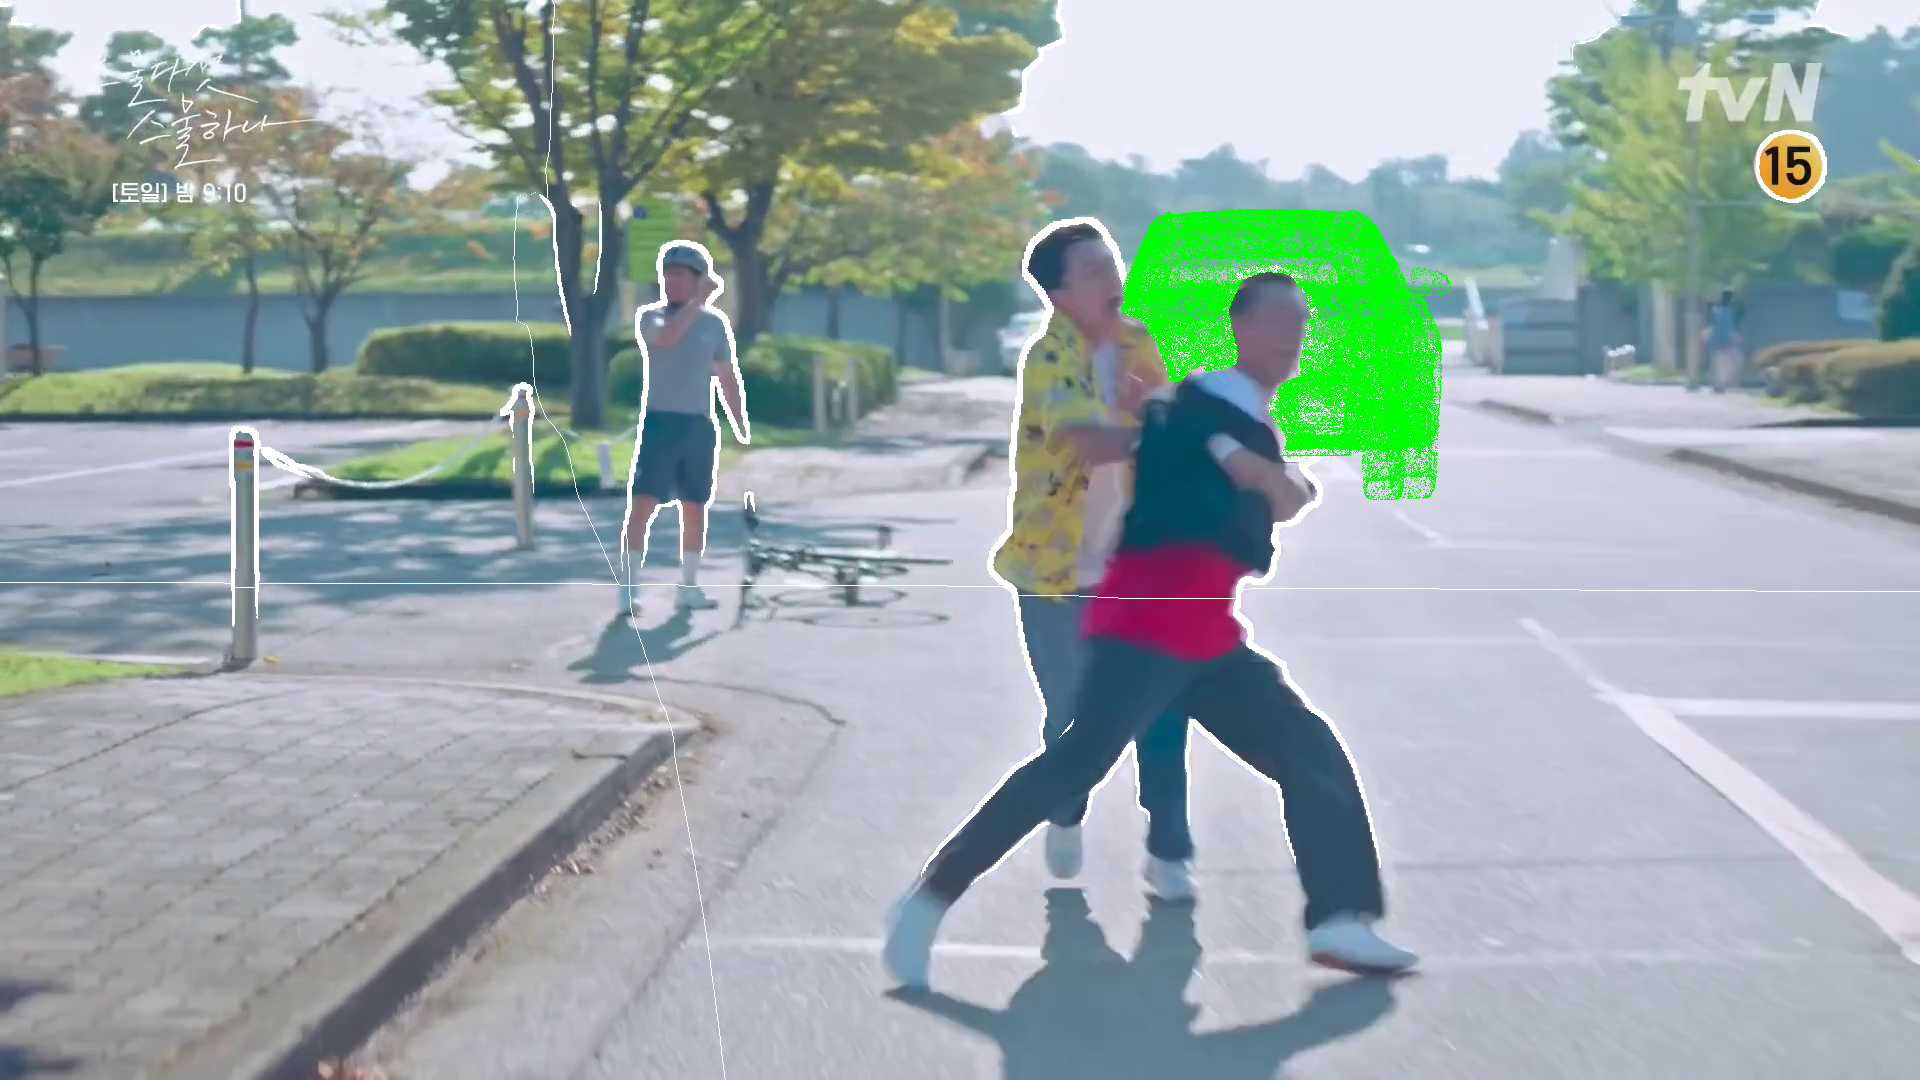
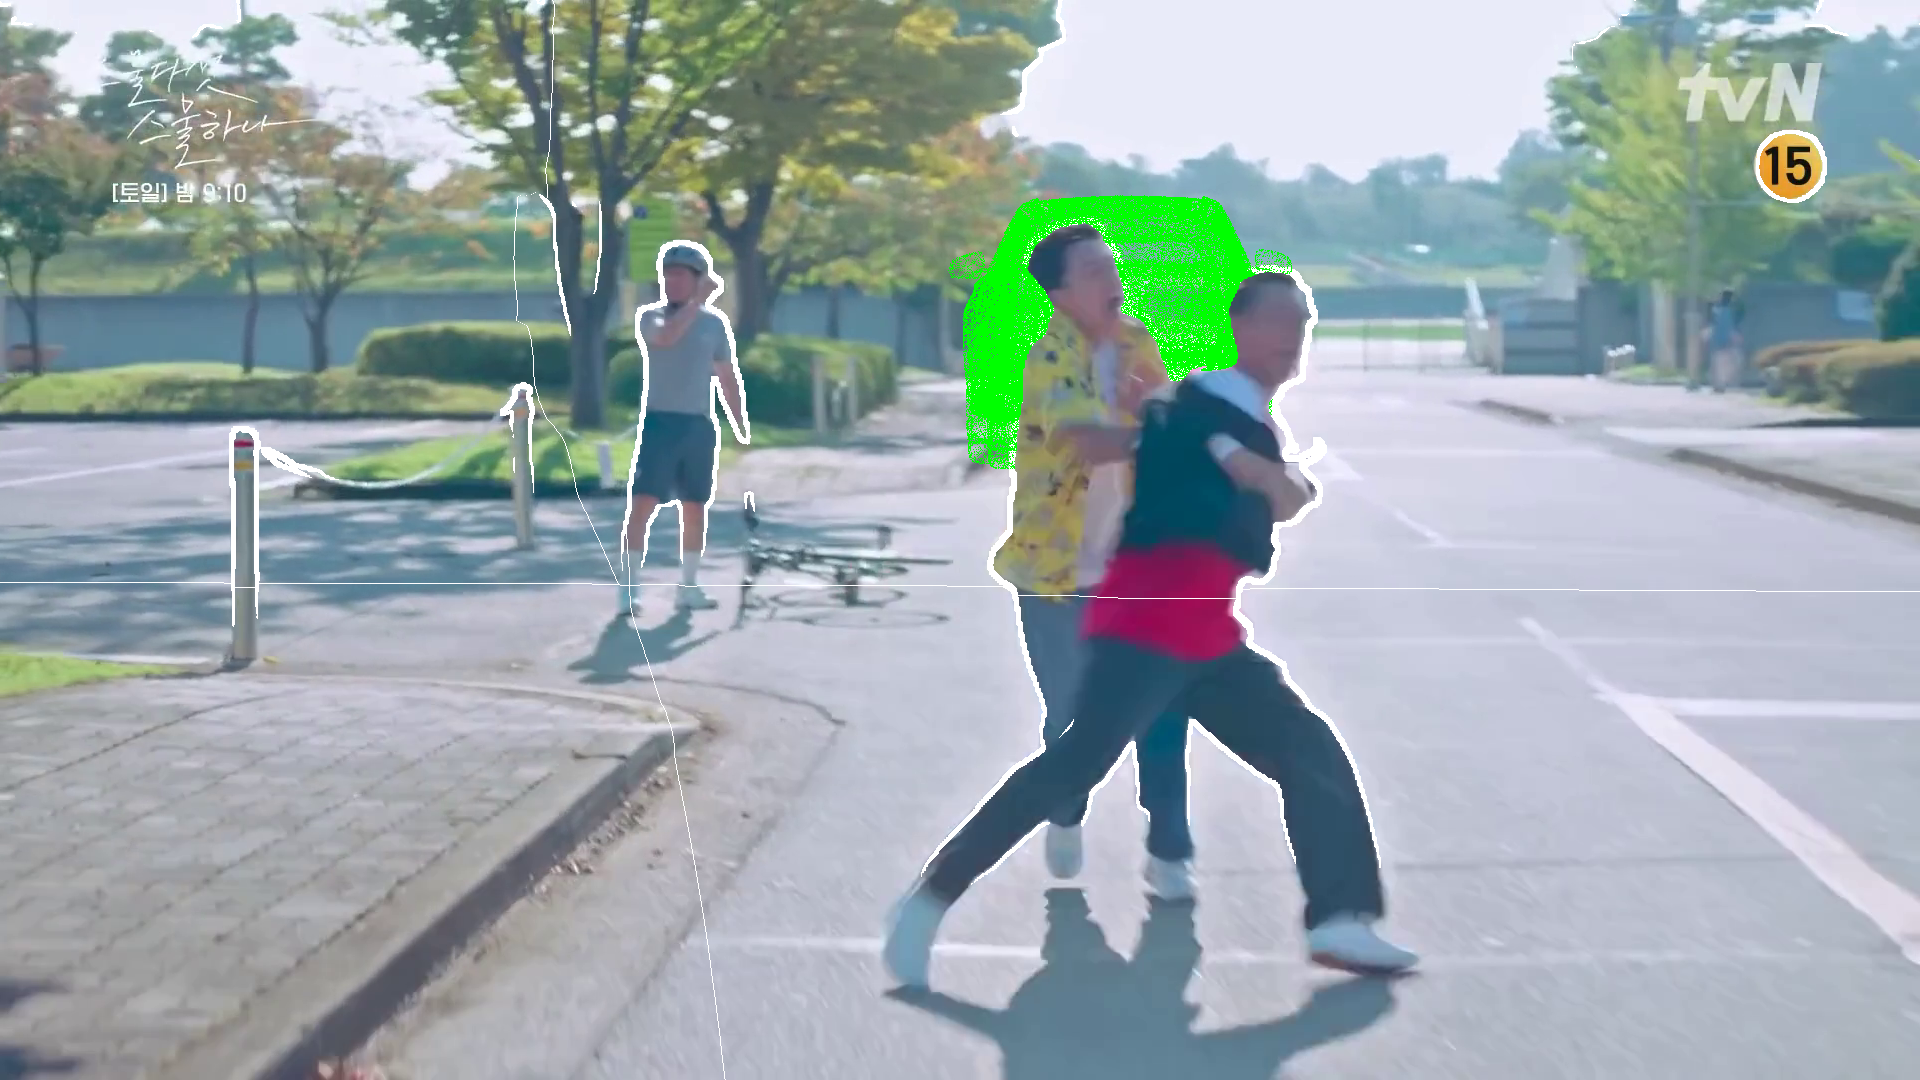
single frame inertia

Changed region(s): [[0.5, 0.1833, 0.75, 0.4583]]

diff --git a/vipe/utils/viser.py b/vipe/utils/viser.py
@@ -343,6 +343,11 @@ class ClientClosures:
                 "Frame to Reproject", min=0, max=max_frames, step=1, initial_value=0
             )
             
+            self.gui_inertia_start_frame = self.client.gui.add_slider(
+                "Inertia Start Frame", min=-1, max=max_frames, step=1, initial_value=-1,
+                hint="관성 적용 시작 프레임 (-1 = 비활성화). 이 프레임부터는 관성 모션이 적용됩니다."
+            )
+            
             gui_reproject_single = self.client.gui.add_button(
                 "Reproject Single Frame",
                 hint="선택한 프레임만 reproject하여 이미지로 저장합니다",
@@ -1378,66 +1383,185 @@ class ClientClosures:
             )
             valid_tracking &= valid_bounds
         
+        # --- 관성 시작 프레임 확인 ---
+        inertia_start_frame = getattr(self, "gui_inertia_start_frame", None)
+        if inertia_start_frame is not None:
+            inertia_start_frame_value = int(inertia_start_frame.value)
+        else:
+            inertia_start_frame_value = -1  # 비활성화
+        
+        use_inertia = (inertia_start_frame_value >= 0 and frame_idx >= inertia_start_frame_value)
+        
         # --- 유효한 추적만 사용하여 현재 프레임의 3D 점 계산 ---
         if valid_tracking.sum() == 0:
             logger.warning(f"  frame {frame_idx}: No valid tracked points")
             # Object는 첫 프레임 위치 유지
             tracked_points = obj_points.copy()
         else:
-            # 유효한 추적된 pixel 좌표
-            valid_coords = current_pixel_coords[valid_tracking].astype(int)
-            
-            # 현재 프레임에서의 depth 가져오기
-            z_curr = depth[valid_coords[:, 1], valid_coords[:, 0]]
-            depth_mask_curr = reliable_depth_mask_range(torch.from_numpy(depth)).numpy()
-            valid_depth_curr = depth_mask_curr[valid_coords[:, 1], valid_coords[:, 0]] & (z_curr > 0)
-            
-            if valid_depth_curr.sum() == 0:
-                logger.warning(f"  frame {frame_idx}: No valid depth for tracked points")
-                tracked_points = obj_points.copy()
-            else:
-                # 유효한 depth만 사용
-                valid_final = valid_tracking.copy()
-                valid_final[valid_tracking] = valid_depth_curr
+            if use_inertia:
+                # 관성 적용: inertia_start_frame에서의 모션 벡터를 선형 확장
+                logger.info(f"  frame {frame_idx}: Using inertia from frame {inertia_start_frame_value}")
                 
-                z_curr_valid = z_curr[valid_depth_curr]
-                valid_coords_final = valid_coords[valid_depth_curr]
+                # Inertia 시작 프레임의 데이터 가져오기
+                inertia_depth = depth_seq[inertia_start_frame_value][1].cpu().numpy()
+                inertia_intr = intr_seq[inertia_start_frame_value].cpu().numpy()
+                inertia_pose = pose_seq[inertia_start_frame_value].matrix().cpu().numpy()
+                inertia_fx, inertia_fy, inertia_cx, inertia_cy = inertia_intr[:4]
+                inertia_R, inertia_t = inertia_pose[:3, :3], inertia_pose[:3, 3]
                 
-                # 현재 프레임의 3D 점들 (world 좌표)
-                X_curr = (valid_coords_final[:, 0] - cx) * z_curr_valid / fx
-                Y_curr = (valid_coords_final[:, 1] - cy) * z_curr_valid / fy
-                pts_cam_curr = np.stack([X_curr, Y_curr, z_curr_valid], axis=-1)
-                pts_world_curr = (pts_cam_curr @ R.T) + t
+                # Inertia 시작 프레임까지의 pixel 좌표 추적
+                inertia_pixel_coords = pixel_coords_frame_0.copy()
+                inertia_valid_tracking = np.ones(len(inertia_pixel_coords), dtype=bool)
                 
-                # 첫 프레임 기준의 motion vector 계산
-                pts_world_frame_0_valid = pts_world_frame_0[valid_final]
-                motion_vectors = pts_world_curr - pts_world_frame_0_valid  # [N, 3]
-                
-                # Object 중심점 계산
-                obj_center_ref = obj_points.mean(axis=0)
-                
-                # Object 근처의 점들 찾기 (첫 프레임 기준 거리)
-                distances_to_obj = np.linalg.norm(pts_world_frame_0_valid - obj_center_ref, axis=1)
-                nearby_mask = distances_to_obj <= nearby_distance
-                
-                if nearby_mask.sum() > 0:
-                    # 근처 점들의 motion vector 평균 계산
-                    nearby_motion_vectors = motion_vectors[nearby_mask]
-                    avg_motion = np.mean(nearby_motion_vectors, axis=0)
+                for flow_frame_idx in range(inertia_start_frame_value):
+                    if flow_frame_idx >= len(self.flow_cache) or self.flow_cache[flow_frame_idx] is None:
+                        inertia_valid_tracking[:] = False
+                        break
                     
-                    # Object를 첫 프레임 위치에서 평균 motion만큼 이동
-                    tracked_points = obj_points + avg_motion
-                    
-                    logger.info(
-                        f"  frame {frame_idx}: "
-                        f"tracked {valid_final.sum()}/{len(valid_tracking)} points, "
-                        f"found {nearby_mask.sum()} nearby points, "
-                        f"avg motion from frame 0 = [{avg_motion[0]:.3f}, {avg_motion[1]:.3f}, {avg_motion[2]:.3f}]"
+                    flow_np = self.flow_cache[flow_frame_idx].numpy()
+                    valid_bounds = (
+                        (inertia_pixel_coords[:, 0] >= 0) & (inertia_pixel_coords[:, 0] < w) &
+                        (inertia_pixel_coords[:, 1] >= 0) & (inertia_pixel_coords[:, 1] < h)
                     )
-                else:
-                    logger.warning(f"  frame {frame_idx}: No nearby points found (distance={nearby_distance:.2f})")
-                    # Object는 첫 프레임 위치 유지
+                    inertia_valid_tracking &= valid_bounds
+                    
+                    if not inertia_valid_tracking.any():
+                        break
+                    
+                    valid_coords = inertia_pixel_coords[inertia_valid_tracking].astype(int)
+                    u_flow = flow_np[0, valid_coords[:, 1], valid_coords[:, 0]]
+                    v_flow = flow_np[1, valid_coords[:, 1], valid_coords[:, 0]]
+                    
+                    inertia_pixel_coords[inertia_valid_tracking, 0] += u_flow
+                    inertia_pixel_coords[inertia_valid_tracking, 1] += v_flow
+                
+                # 최종 유효 범위 체크
+                valid_bounds = (
+                    (inertia_pixel_coords[:, 0] >= 0) & (inertia_pixel_coords[:, 0] < w) &
+                    (inertia_pixel_coords[:, 1] >= 0) & (inertia_pixel_coords[:, 1] < h)
+                )
+                inertia_valid_tracking &= valid_bounds
+                
+                if inertia_valid_tracking.sum() == 0:
+                    logger.warning(f"  frame {frame_idx}: No valid tracked points at inertia start frame {inertia_start_frame_value}")
                     tracked_points = obj_points.copy()
+                else:
+                    # Inertia 시작 프레임의 3D 점 계산
+                    inertia_valid_coords = inertia_pixel_coords[inertia_valid_tracking].astype(int)
+                    inertia_z_curr = inertia_depth[inertia_valid_coords[:, 1], inertia_valid_coords[:, 0]]
+                    inertia_depth_mask = reliable_depth_mask_range(torch.from_numpy(inertia_depth)).numpy()
+                    inertia_valid_depth = inertia_depth_mask[inertia_valid_coords[:, 1], inertia_valid_coords[:, 0]] & (inertia_z_curr > 0)
+                    
+                    if inertia_valid_depth.sum() == 0:
+                        logger.warning(f"  frame {frame_idx}: No valid depth at inertia start frame {inertia_start_frame_value}")
+                        tracked_points = obj_points.copy()
+                    else:
+                        inertia_valid_final = inertia_valid_tracking.copy()
+                        inertia_valid_final[inertia_valid_tracking] = inertia_valid_depth
+                        
+                        inertia_z_valid = inertia_z_curr[inertia_valid_depth]
+                        inertia_valid_coords_final = inertia_valid_coords[inertia_valid_depth]
+                        
+                        # Inertia 시작 프레임의 3D 점들 (world 좌표)
+                        inertia_X_curr = (inertia_valid_coords_final[:, 0] - inertia_cx) * inertia_z_valid / inertia_fx
+                        inertia_Y_curr = (inertia_valid_coords_final[:, 1] - inertia_cy) * inertia_z_valid / inertia_fy
+                        inertia_pts_cam_curr = np.stack([inertia_X_curr, inertia_Y_curr, inertia_z_valid], axis=-1)
+                        inertia_pts_world_curr = (inertia_pts_cam_curr @ inertia_R.T) + inertia_t
+                        
+                        # 첫 프레임 기준의 motion vector 계산 (inertia 시작 프레임에서)
+                        inertia_pts_world_frame_0_valid = pts_world_frame_0[inertia_valid_final]
+                        inertia_motion_vectors = inertia_pts_world_curr - inertia_pts_world_frame_0_valid  # [N, 3]
+                        
+                        # Object 중심점 계산
+                        obj_center_ref = obj_points.mean(axis=0)
+                        
+                        # Object 근처의 점들 찾기 (첫 프레임 기준 거리)
+                        inertia_distances_to_obj = np.linalg.norm(inertia_pts_world_frame_0_valid - obj_center_ref, axis=1)
+                        inertia_nearby_mask = inertia_distances_to_obj <= nearby_distance
+                        
+                        if inertia_nearby_mask.sum() > 0:
+                            # 근처 점들의 motion vector 평균 계산 (inertia 시작 프레임에서)
+                            inertia_nearby_motion_vectors = inertia_motion_vectors[inertia_nearby_mask]
+                            inertia_avg_motion = np.mean(inertia_nearby_motion_vectors, axis=0)
+                            
+                            # 선형 확장: (frame_idx / inertia_start_frame_value) 배만큼 확장
+                            if inertia_start_frame_value > 0:
+                                scale_factor = frame_idx / inertia_start_frame_value
+                            else:
+                                scale_factor = 1.0
+                            
+                            extended_motion = inertia_avg_motion * scale_factor
+                            
+                            # Object를 첫 프레임 위치에서 확장된 motion만큼 이동
+                            tracked_points = obj_points + extended_motion
+                            
+                            logger.info(
+                                f"  frame {frame_idx}: INERTIA MODE "
+                                f"(base frame {inertia_start_frame_value}, scale={scale_factor:.2f}) "
+                                f"tracked {inertia_valid_final.sum()}/{len(inertia_valid_tracking)} points, "
+                                f"found {inertia_nearby_mask.sum()} nearby points, "
+                                f"base motion = [{inertia_avg_motion[0]:.3f}, {inertia_avg_motion[1]:.3f}, {inertia_avg_motion[2]:.3f}], "
+                                f"extended motion = [{extended_motion[0]:.3f}, {extended_motion[1]:.3f}, {extended_motion[2]:.3f}]"
+                            )
+                        else:
+                            logger.warning(f"  frame {frame_idx}: No nearby points at inertia start frame {inertia_start_frame_value}")
+                            tracked_points = obj_points.copy()
+            else:
+                # 기존 로직: 현재 프레임에서 모션 벡터 계산
+                # 유효한 추적된 pixel 좌표
+                valid_coords = current_pixel_coords[valid_tracking].astype(int)
+                
+                # 현재 프레임에서의 depth 가져오기
+                z_curr = depth[valid_coords[:, 1], valid_coords[:, 0]]
+                depth_mask_curr = reliable_depth_mask_range(torch.from_numpy(depth)).numpy()
+                valid_depth_curr = depth_mask_curr[valid_coords[:, 1], valid_coords[:, 0]] & (z_curr > 0)
+                
+                if valid_depth_curr.sum() == 0:
+                    logger.warning(f"  frame {frame_idx}: No valid depth for tracked points")
+                    tracked_points = obj_points.copy()
+                else:
+                    # 유효한 depth만 사용
+                    valid_final = valid_tracking.copy()
+                    valid_final[valid_tracking] = valid_depth_curr
+                    
+                    z_curr_valid = z_curr[valid_depth_curr]
+                    valid_coords_final = valid_coords[valid_depth_curr]
+                    
+                    # 현재 프레임의 3D 점들 (world 좌표)
+                    X_curr = (valid_coords_final[:, 0] - cx) * z_curr_valid / fx
+                    Y_curr = (valid_coords_final[:, 1] - cy) * z_curr_valid / fy
+                    pts_cam_curr = np.stack([X_curr, Y_curr, z_curr_valid], axis=-1)
+                    pts_world_curr = (pts_cam_curr @ R.T) + t
+                    
+                    # 첫 프레임 기준의 motion vector 계산
+                    pts_world_frame_0_valid = pts_world_frame_0[valid_final]
+                    motion_vectors = pts_world_curr - pts_world_frame_0_valid  # [N, 3]
+                    
+                    # Object 중심점 계산
+                    obj_center_ref = obj_points.mean(axis=0)
+                    
+                    # Object 근처의 점들 찾기 (첫 프레임 기준 거리)
+                    distances_to_obj = np.linalg.norm(pts_world_frame_0_valid - obj_center_ref, axis=1)
+                    nearby_mask = distances_to_obj <= nearby_distance
+                    
+                    if nearby_mask.sum() > 0:
+                        # 근처 점들의 motion vector 평균 계산
+                        nearby_motion_vectors = motion_vectors[nearby_mask]
+                        avg_motion = np.mean(nearby_motion_vectors, axis=0)
+                        
+                        # Object를 첫 프레임 위치에서 평균 motion만큼 이동
+                        tracked_points = obj_points + avg_motion
+                        
+                        logger.info(
+                            f"  frame {frame_idx}: "
+                            f"tracked {valid_final.sum()}/{len(valid_tracking)} points, "
+                            f"found {nearby_mask.sum()} nearby points, "
+                            f"avg motion from frame 0 = [{avg_motion[0]:.3f}, {avg_motion[1]:.3f}, {avg_motion[2]:.3f}]"
+                        )
+                    else:
+                        logger.warning(f"  frame {frame_idx}: No nearby points found (distance={nearby_distance:.2f})")
+                        # Object는 첫 프레임 위치 유지
+                        tracked_points = obj_points.copy()
         
         # Scene + object merge
         all_points = np.concatenate([pts_world_scene, tracked_points], axis=0)
@@ -1865,7 +1989,7 @@ def run_viser(base_path: Path, port: int = 20540, obj: str = None):
     global _global_context
     _global_context = GlobalContext(artifacts=sorted(artifacts, key=lambda x: x.artifact_name))
 
-    server = viser.ViserServer(host="0.0.0.0", port=10001, verbose=False)
+    server = viser.ViserServer(host="0.0.0.0", port=port, verbose=False)
     client_closures: dict[int, ClientClosures] = {}
 
     @server.on_client_connect
